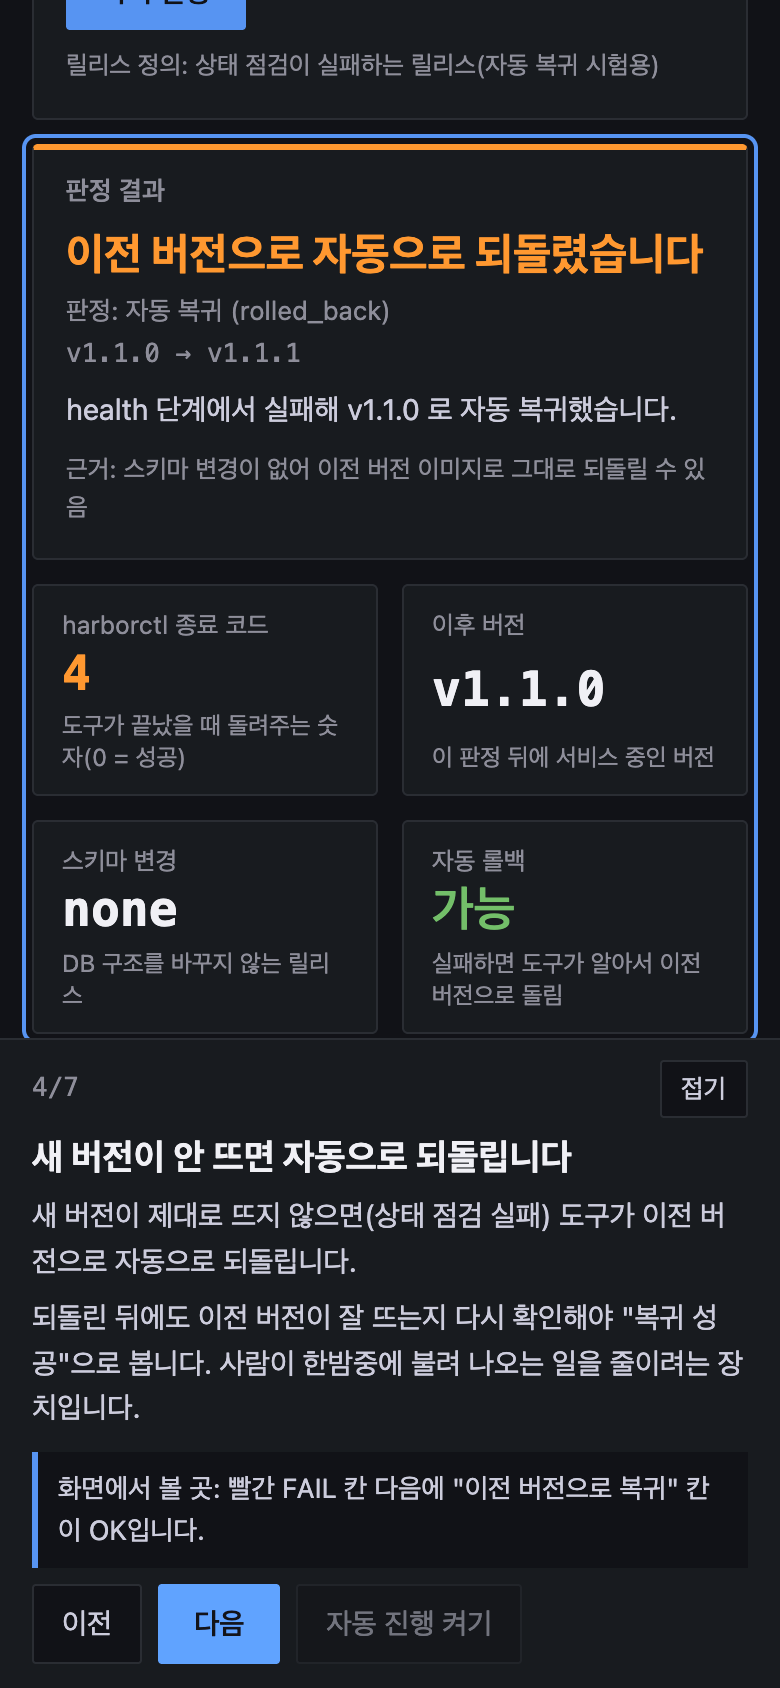
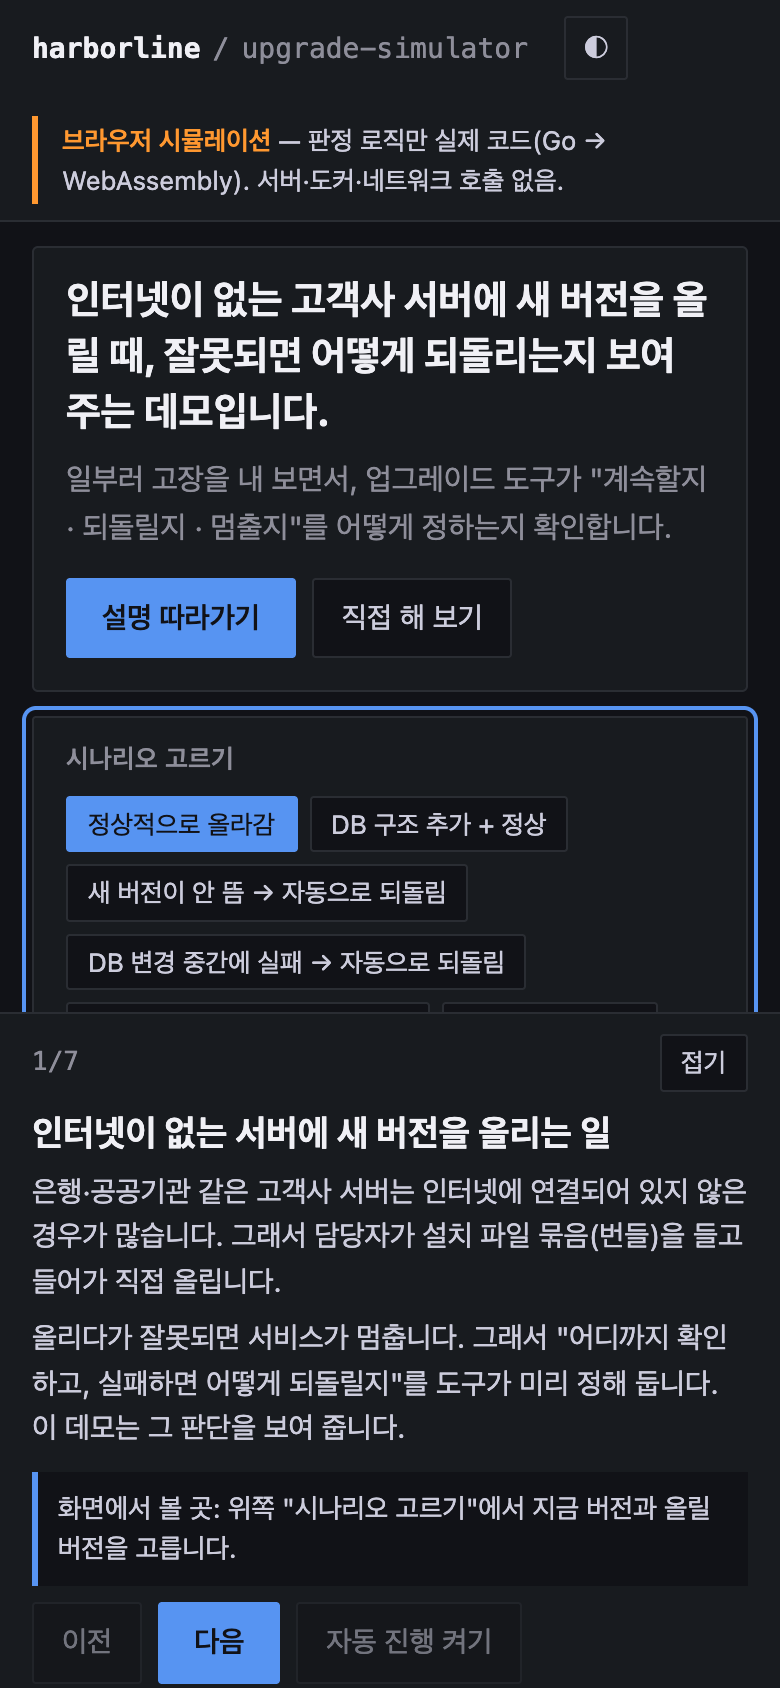
feat(web): 설명 따라가기를 첫 방문 시 자동으로 열고 쿠키로 기억

diff --git a/web/e2e/tour.spec.ts b/web/e2e/tour.spec.ts
@@ -1,9 +1,10 @@
 import { expect, test, type Page } from '@playwright/test';
 
-async function open(page: Page, query = '') {
+async function open(page: Page, query = '', seen = true) {
   const errors: string[] = [];
   page.on('console', (m) => { if (m.type() === 'error') errors.push(m.text()); });
   page.on('pageerror', (e) => errors.push(String(e)));
+  if (seen) await page.context().addCookies([{ name: 'hl_tour', value: 'seen', url: 'http://127.0.0.1:4173/harborline/' }]);
   await page.goto(`./${query}`);
   await expect(page.locator('body[data-ready="true"]')).toBeVisible({ timeout: 15_000 });
   return errors;
@@ -11,7 +12,7 @@ async function open(page: Page, query = '') {
 const tour = (page: Page) => page.locator('#tour');
 const start = (page: Page) => page.getByRole('button', { name: '설명 따라가기' });
 
-test('첫 화면에 한 문장 설명과 두 버튼이 있고 설명 패널은 닫혀 있다', async ({ page }) => {
+test('첫 화면에 한 문장 설명과 두 버튼이 있고, 이미 본 방문자에게는 설명 패널이 닫혀 있다', async ({ page }) => {
   await open(page);
   await expect(page.locator('h1')).toContainText('잘못되면 어떻게 되돌리는지 보여 주는 데모');
   await expect(start(page)).toBeVisible();
@@ -109,4 +110,64 @@ test('모바일 폭에서 설명 시트가 본문 끝과 강조된 곳을 가리
   expect(footer).toBeLessThanOrEqual(await sheetTop() + 1);
   const w = await page.evaluate(() => ({ sw: document.documentElement.scrollWidth, cw: document.documentElement.clientWidth }));
   expect(w.sw).toBeLessThanOrEqual(w.cw);
+});
+
+test('처음 온 방문자에게는 설명 패널이 1장부터 저절로 열리고 포커스를 빼앗지 않는다', async ({ page }) => {
+  const errors = await open(page, '', false);
+  await expect(tour(page)).toBeVisible();
+  await expect(page.locator('#tour-prog')).toHaveText('1/7');
+  await expect(page.locator('#tour-title')).toContainText('인터넷이 없는 서버에 새 버전을 올리는 일');
+  await expect(page.locator('.controls')).toHaveClass(/tour-hl/);
+  const active = await page.evaluate(() => document.activeElement?.tagName);
+  expect(active).toBe('BODY');
+  expect(await page.evaluate(() => window.scrollY)).toBe(0);
+  expect(errors).toEqual([]);
+});
+
+test('설명을 접은 뒤 새로고침하면 저절로 열리지 않고, 버튼으로 다시 열 수 있다', async ({ page }) => {
+  await open(page, '', false);
+  await expect(tour(page)).toBeVisible();
+  await page.getByRole('button', { name: '접기' }).click();
+  await page.reload();
+  await expect(page.locator('body[data-ready="true"]')).toBeVisible({ timeout: 15_000 });
+  await expect(tour(page)).toBeHidden();
+  const cookies = await page.context().cookies();
+  const c = cookies.find((x) => x.name === 'hl_tour');
+  expect(c?.value).toBe('seen');
+  expect(c?.path).toBe('/harborline/');
+  expect(c?.sameSite).toBe('Lax');
+  await page.getByRole('button', { name: '설명 보기' }).click();
+  await expect(tour(page)).toBeVisible();
+});
+
+test('설명을 끝까지 본 뒤 새로고침하면 저절로 열리지 않는다', async ({ page }) => {
+  await open(page, '', false);
+  for (let i = 0; i < 6; i++) await page.getByRole('button', { name: '다음', exact: true }).click();
+  await page.locator('#tour-next').click();
+  await expect(tour(page)).toBeHidden();
+  await page.reload();
+  await expect(page.locator('body[data-ready="true"]')).toBeVisible({ timeout: 15_000 });
+  await expect(tour(page)).toBeHidden();
+});
+
+test('쿠키를 쓸 수 없어도 오류 없이 저절로 열린다', async ({ page }) => {
+  await page.addInitScript(() => {
+    Object.defineProperty(Document.prototype, 'cookie', { get() { throw new Error('blocked'); }, set() { throw new Error('blocked'); } });
+  });
+  const errors = await open(page, '', false);
+  await expect(tour(page)).toBeVisible();
+  await page.getByRole('button', { name: '접기' }).click();
+  await page.reload();
+  await expect(page.locator('body[data-ready="true"]')).toBeVisible({ timeout: 15_000 });
+  await expect(tour(page)).toBeVisible();
+  expect(errors).toEqual([]);
+});
+
+test('모바일 폭에서 저절로 열린 설명 시트가 첫 화면의 한 문장을 가리지 않는다', async ({ page }) => {
+  await page.setViewportSize({ width: 390, height: 800 });
+  await open(page, '', false);
+  await expect(tour(page)).toBeVisible();
+  await page.waitForTimeout(600);
+  const r = await page.evaluate(() => ({ h1: document.querySelector('h1')!.getBoundingClientRect().bottom, sheet: document.getElementById('tour')!.getBoundingClientRect().top }));
+  expect(r.h1).toBeLessThan(r.sheet);
 });

diff --git a/web/src/app.js b/web/src/app.js
@@ -311,16 +311,17 @@ function tourGo(i, scroll = true) {
   }
   tourTimer();
 }
-function tourOpen(i = tour.i, focus = false) {
+function tourOpen(i = tour.i, focus = false, scroll = true) {
   tour.open = true;
   $('tour').hidden = false;
   $('tour-open').hidden = true;
   document.body.classList.add('tour-open');
   syncSheet();
-  tourGo(i);
+  tourGo(i, scroll);
   if (focus) $('tour-title').focus({ preventScroll: true });
 }
 function tourCollapse() {
+  tourRemember();
   tour.open = false;
   clearTimeout(tour.timer);
   $('tour').hidden = true;
@@ -328,7 +329,19 @@ function tourCollapse() {
   document.body.classList.remove('tour-open');
   document.documentElement.style.removeProperty('--sheet-h');
 }
+// 설명을 봤는지만 쿠키 하나에 기억한다(식별 정보 없음). 쿠키를 못 쓰면 매번 처음 방문처럼 동작한다.
+const COOKIE = 'hl_tour';
+function tourSeen() {
+  try { return document.cookie.split('; ').some((c) => c === `${COOKIE}=seen`); } catch { return false; }
+}
+function tourRemember() {
+  try {
+    const dir = location.pathname.replace(/[^/]*$/, '') || '/';
+    document.cookie = `${COOKIE}=seen; path=${dir}; max-age=15552000; SameSite=Lax`;
+  } catch { /* 쿠키 차단: 기억하지 못할 뿐 동작은 같다 */ }
+}
 function tourFinish() {
+  tourRemember();
   tour.i = 0;
   setHighlights([]);
   tourCollapse();
@@ -388,5 +401,7 @@ async function main() {
   if (!wasmReady) { $('decision').textContent = '판정 엔진을 불러오지 못했습니다.'; return; }
   applyPreset(PRESETS[2]);
   lint();
+  if (!tourSeen()) tourOpen(0, false, false); // 저절로 열 때는 화면을 옮기지 않는다(첫 화면 보존)
+  else $('tour-open').hidden = false;
 }
 main();

diff --git a/web/src/index.html b/web/src/index.html
@@ -126,7 +126,7 @@
 <button id="tour-open" class="tour-reopen" type="button" hidden>설명 보기</button>
 
 <footer>
-  <span>외부 요청 없음: 글꼴·스크립트·데이터 모두 이 사이트 안의 파일입니다.</span>
+  <span>외부 요청 없음: 글꼴·스크립트·데이터 모두 이 사이트 안의 파일입니다. 설명을 봤는지 기억하려고 쿠키 하나(hl_tour)를 씁니다.</span>
   <a href="https://github.com/choibongseok/harborline">소스 저장소</a>
 </footer>
 

diff --git a/web/e2e/demo.spec.ts b/web/e2e/demo.spec.ts
@@ -4,6 +4,7 @@ async function open(page: Page) {
   const errors: string[] = [];
   page.on('console', (m) => { if (m.type() === 'error') errors.push(m.text()); });
   page.on('pageerror', (e) => errors.push(String(e)));
+  await page.context().addCookies([{ name: 'hl_tour', value: 'seen', url: 'http://127.0.0.1:4173/harborline/' }]);
   await page.goto('./');
   await expect(page.locator('body[data-ready="true"]')).toBeVisible({ timeout: 15_000 });
   return errors;

diff --git a/docs/TEST_CASES.md b/docs/TEST_CASES.md
@@ -8,8 +8,8 @@
 |---|---|---|
 | unit (판정 로직·어댑터·설정·번들 검사·호환성 표) | 86 | `make test-unit` |
 | integration (실제 PG·LDAP·Keycloak, STARTTLS SMTP) | 19 | `make test-int` |
-| e2e (격리 네트워크 설치·업그레이드·복구·프록시 / 데모 사이트 브라우저) | 41 | `make e2e`, `make verify` |
-| **합계** | **146** | `make verify` |
+| e2e (격리 네트워크 설치·업그레이드·복구·프록시 / 데모 사이트 브라우저) | 46 | `make e2e`, `make verify` |
+| **합계** | **151** | `make verify` |
 
 | ID | 영역 | 시나리오 | 입력/조건 | 기대 결과 | 자동화 테스트 | 종류 |
 |---|---|---|---|---|---|---|
@@ -152,10 +152,15 @@
 | WEB-011 | 데모 사이트(브라우저) | 키보드·테마 | 화살표 키, 테마 버튼 | 탭 이동, 포커스 윤곽 존재, 테마 전환 | `web/e2e/demo.spec.ts::키보드: 탭을 화살표로 옮기고 포커스 윤곽이 보이며 테마 전환이 동작한다` | e2e |
 | WEB-012 | 데모 사이트(브라우저) | 모바일 레이아웃 | 390px 폭 | 한 열, 가로 스크롤 없음 | `web/e2e/demo.spec.ts::모바일 폭에서 한 열로 쌓이고 가로 스크롤이 생기지 않는다` | e2e |
 | WEB-013 | 데모 사이트(브라우저) | 정적 배포 경로 검사 | /harborline/ 하위 경로 서빙 | 모든 요청 같은 출처·200 | `web/e2e/demo.spec.ts::외부 요청이 없고 /harborline/ 아래 모든 파일이 정상 응답한다` | e2e |
-| TUR-001 | 데모 사이트 설명 따라가기 | 첫 화면 | 페이지 열기 | 한 문장 제목, 설명 따라가기·직접 해 보기 버튼, 패널 닫힘, 용어 풀이 | `web/e2e/tour.spec.ts::첫 화면에 한 문장 설명과 두 버튼이 있고 설명 패널은 닫혀 있다` | e2e |
+| TUR-001 | 데모 사이트 설명 따라가기 | 첫 화면(이미 본 방문자) | hl_tour 쿠키가 있는 상태로 페이지 열기 | 한 문장 제목, 설명 따라가기·직접 해 보기 버튼, 패널 닫힘, 용어 풀이 | `web/e2e/tour.spec.ts::첫 화면에 한 문장 설명과 두 버튼이 있고, 이미 본 방문자에게는 설명 패널이 닫혀 있다` | e2e |
 | TUR-002 | 데모 사이트 설명 따라가기 | 장 넘김과 시나리오 연동 | 7장을 차례로 넘김 | 장마다 시나리오 결과 문장 변경, 강조 테두리, 마치기 시 닫힘, 콘솔 오류 0 | `web/e2e/tour.spec.ts::설명 따라가기: 장을 넘기면 해당 시나리오가 자동 실행되고 볼 곳이 강조된다` | e2e |
 | TUR-003 | 데모 사이트 설명 따라가기 | 키보드 조작 | ← → 키 | 2/7, 3/7, 다시 2/7 | `web/e2e/tour.spec.ts::설명 따라가기: 좌우 화살표 키로 장을 넘기고 진행 표시가 바뀐다` | e2e |
 | TUR-004 | 데모 사이트 설명 따라가기 | 접기·펼치기 | 4장에서 접고 다시 열기 | 다시 여는 버튼 표시, 4/7 유지 | `web/e2e/tour.spec.ts::설명 따라가기: 접으면 다시 여는 버튼이 보이고 펼치면 같은 장에서 이어진다` | e2e |
 | TUR-005 | 데모 사이트 설명 따라가기 | 자동 진행 | 자동 진행 켬/끔(간격 0.9초) | 켜면 장 이동, 끄면 이동 멈춤 | `web/e2e/tour.spec.ts::설명 따라가기: 자동 진행을 켜면 다음 장으로 넘어가고 끄면 멈춘다` | e2e |
 | TUR-006 | 데모 사이트 설명 따라가기 | 동작 줄이기 | prefers-reduced-motion: reduce | 자동 진행 버튼 비활성, 키보드로는 이동 | `web/e2e/tour.spec.ts::동작 줄이기 설정에서는 자동 진행을 쓰지 않는다` | e2e |
 | TUR-007 | 데모 사이트 설명 따라가기 | 390px 하단 시트 | 투어 열고 장 이동 후 맨 아래로 스크롤 | 강조된 곳이 시트 위에 보임, 푸터가 시트에 가리지 않음, 가로 스크롤 없음 | `web/e2e/tour.spec.ts::모바일 폭에서 설명 시트가 본문 끝과 강조된 곳을 가리지 않는다` | e2e |
+| TUR-008 | 데모 사이트 설명 따라가기 | 첫 방문 자동 시작 | 쿠키 없이 페이지 열기 | 1/7 장이 열리고 시나리오·강조 적용, 활성 요소는 BODY, 스크롤 위치 0(첫 화면 보존), 콘솔 오류 0 | `web/e2e/tour.spec.ts::처음 온 방문자에게는 설명 패널이 1장부터 저절로 열리고 포커스를 빼앗지 않는다` | e2e |
+| TUR-009 | 데모 사이트 설명 따라가기 | 접은 뒤 재방문 | 자동으로 열린 패널을 접고 새로고침 | 패널 닫힘, 쿠키 hl_tour=seen(path /harborline/, SameSite=Lax), 설명 보기 버튼으로 다시 열림 | `web/e2e/tour.spec.ts::설명을 접은 뒤 새로고침하면 저절로 열리지 않고, 버튼으로 다시 열 수 있다` | e2e |
+| TUR-010 | 데모 사이트 설명 따라가기 | 끝까지 본 뒤 재방문 | 7장까지 넘기고 마치기 후 새로고침 | 패널 닫힘 | `web/e2e/tour.spec.ts::설명을 끝까지 본 뒤 새로고침하면 저절로 열리지 않는다` | e2e |
+| TUR-011 | 데모 사이트 설명 따라가기 | 쿠키 차단 | document.cookie 접근이 예외를 던지는 환경 | 오류 없이 열리고, 접고 새로고침해도 다시 열림 | `web/e2e/tour.spec.ts::쿠키를 쓸 수 없어도 오류 없이 저절로 열린다` | e2e |
+| TUR-012 | 데모 사이트 설명 따라가기 | 390px 첫 방문 | 쿠키 없이 390px 로 열기 | 스크롤 없이 제목(h1) 아래쪽이 시트 위쪽보다 위에 있음 | `web/e2e/tour.spec.ts::모바일 폭에서 저절로 열린 설명 시트가 첫 화면의 한 문장을 가리지 않는다` | e2e |
